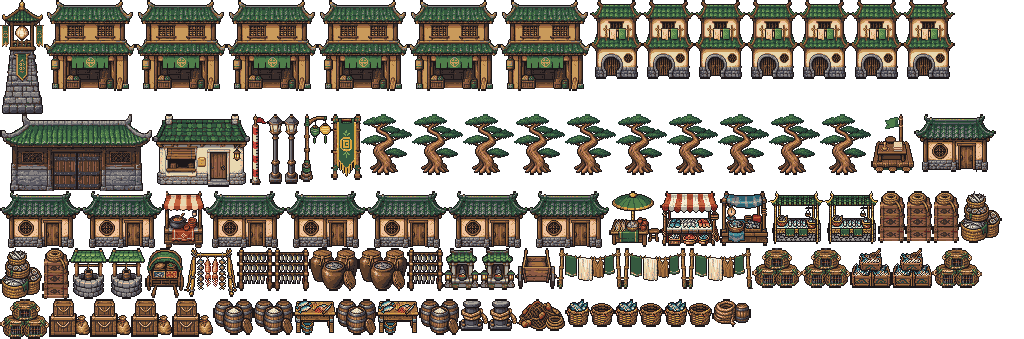
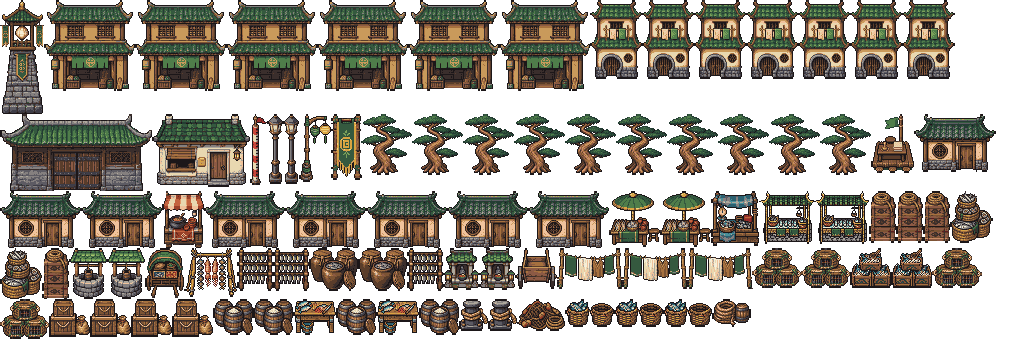
Swap the market's striped fish shed for an Earth Kingdom stall and untangle two stacked spots
Claude-Session: https://claude.ai/code/session_01H8JDTPYztrZvUL5HBCK6eR

Changed region(s): [[0.625, 0.5605, 1.0, 0.7375]]

diff --git a/src/content/scenes/rg02.topdown.ts b/src/content/scenes/rg02.topdown.ts
@@ -162,7 +162,7 @@ export const SALTSTEP_MARKET_OBJECTS: readonly TopDownObject[] = [
   // The quay (`n`): the fish shed, green and gold banners, racks and baskets along the back; lamps, rope, nets and tables along the
   // water. Rows 5-6 stay open.
   piece('handcart', 'handcart', 'prop', [[8, 4]], true),
-  piece('fish_shed', 'awning_shed', 'prop', [[10, 4]], true),
+  piece('fish_shed', 'ek_stall_parasol', 'prop', [[10, 4]], true),
   piece('baskets_north', 'fish_baskets', 'prop', [[11, 4]], true),
   piece('banners', 'banner_poles', 'prop', [[13, 4]], true),
   piece('quay_rack', 'drying_rack', 'prop', [[18, 4]], true),
@@ -180,12 +180,12 @@ export const SALTSTEP_MARKET_OBJECTS: readonly TopDownObject[] = [
   // and a cart between. Earth Kingdom pieces throughout.
   flip(piece('mid_parasol_w', 'ek_stall_parasol', 'prop', block(6, 7, 4, 4), true)),
   piece('mid_jars', 'clay_jars', 'prop', [[12, 4]], true),
-  flip(piece('mid_crates_n', 'fish_crates', 'prop', [[15, 4]], true)),
+  flip(piece('mid_crates_n', 'fish_crates', 'prop', [[14, 4]], true)),
   piece('mid_baskets_ne', 'basket_tower', 'prop', [[20, 4]], true),
   piece('mid_cart', 'ek_cart', 'prop', [[6, 6]], true),
   piece('mid_tower_w', 'basket_tower', 'prop', [[8, 5]], true),
   piece('mid_stall_green', 'ek_stall_green', 'prop', block(10, 11, 5, 5), true),
-  piece('mid_lantern', 'lantern_post', 'prop', [[13, 6]], true),
+  piece('mid_lantern', 'lantern_post', 'prop', [[13, 7]], true, { base: -14 }),
   flip(piece('mid_stall_green_e', 'ek_stall_green', 'prop', block(15, 16, 5, 5), true)),
   piece('mid_hang', 'fish_hang', 'prop', [[18, 5]], true),
   piece('mid_jars_sw', 'clay_jars', 'prop', [[2, 7]], true, { base: -14 }),

diff --git a/src/content/regions/saltstepEmberwatch/maps.ts b/src/content/regions/saltstepEmberwatch/maps.ts
@@ -107,10 +107,10 @@ export const SALTSTEP_MARKET: MapDef = {
     'U,,,uBBBBu,UUuBBBBBu,UUU',
     'U,u,,BBBBu,,u,BBBBB,,u,U',
     'U,,,,,,,,,,,,,,,,,,,,,,U',
-    'U:::::nnn:nnnn:n::nnnnUU',
+    'U:::::nnn:nnnnn:::nnnnUU',
     '==::::::n:nn:::nn:n:::wU',
-    '==::::n::::::n::::::::wU',
-    'U:n:n:nWWn::n:n:n:nnn:wU',
+    '==::::n:::::::::::::::wU',
+    'U:n:n:nWWn::nnn:n:nnn:wU',
     'WWWwwwwWWWwwGwWwWwwGGwwW',
     'WWWwwGGWWWwwwwWwwWwwwwWW',
     'WWWWwFWWWWWwwWWWwWFwwWWW',

diff --git a/docs/art/prompts/maps/saltstep_market.md b/docs/art/prompts/maps/saltstep_market.md
@@ -22,8 +22,8 @@ Saltstep, a market town built out over a grey bay.
 - Trees (49 tiles): 47 tiles (top centre), row 0: columns 0–23; row 1: columns 0, 4, 9, 11–13, 19 and 21–23; row 2: columns 0, 9, 12, 21 and 23; row 3: columns 0 and 23; row 4: columns 0 and 22–23; rows 5–7: column 23; one tile at column 2, row 2 (top left); one tile at column 0, row 7 (middle left).
 - Timber walls (21 tiles): a 5×2 block at columns 14–18, rows 1–2 (top right); a 4×2 block at columns 5–8, rows 1–2 (top left); one tile at column 5, row 10 (middle left); one tile at column 18, row 10 (middle right); one tile at column 12, row 13 (bottom centre).
 - Barred timber gates (5 tiles): a 2×1 block at columns 19–20, row 8 (middle right); a 2×1 block at columns 5–6, row 9 (middle left); one tile at column 12, row 8 (the centre).
-- Stone walls (180 tiles): 154 tiles (bottom centre), row 6: column 6; row 7: columns 2, 6–9 and 14; row 8: columns 0–2, 7–9, 14 and 23; row 9: columns 0–2, 7–9, 14, 17 and 22–23; row 10: columns 0–3, 6–10, 13–15, 17 and 21–23; row 11: columns 0–10, 13–15 and 17–23; rows 12–13: columns 0–10 and 13–23; rows 14–15: columns 0–23; 6 tiles (top centre), row 4: columns 10–13; row 5: columns 10–11; 5 tiles (top right), row 4: columns 18–21; row 5: column 18; 4 tiles (top left), row 4: columns 6–8; row 5: column 8; 3 tiles (top centre), row 4: column 15; row 5: columns 15–16; a 3×1 block at columns 18–20, row 7 (middle right); a 1×2 block at column 16, rows 7–8 (middle right); one tile at column 13, row 6 (the centre); one tile at column 4, row 7 (middle left); one tile at column 12, row 7 (the centre).
-- Sand (50 tiles): 48 tiles (the centre), row 4: columns 1–5, 9, 14 and 16–17; row 5: columns 2–7, 9, 12–14, 17 and 19–21; row 6: columns 2–5, 7–12 and 14–21; row 7: columns 3, 5, 10–11, 15, 17 and 21; one tile at column 1, row 7 (middle left); one tile at column 13, row 7 (the centre).
+- Stone walls (180 tiles): 156 tiles (bottom centre), row 6: column 6; row 7: columns 2, 6–9 and 12–14; row 8: columns 0–2, 7–9, 14 and 23; row 9: columns 0–2, 7–9, 14, 17 and 22–23; row 10: columns 0–3, 6–10, 13–15, 17 and 21–23; row 11: columns 0–10, 13–15 and 17–23; rows 12–13: columns 0–10 and 13–23; rows 14–15: columns 0–23; 7 tiles (top centre), row 4: columns 10–14; row 5: columns 10–11; 5 tiles (top right), row 4: columns 18–21; row 5: column 18; 4 tiles (top left), row 4: columns 6–8; row 5: column 8; a 3×1 block at columns 18–20, row 7 (middle right); a 2×1 block at columns 15–16, row 5 (the centre); a 1×2 block at column 16, rows 7–8 (middle right); one tile at column 4, row 7 (middle left).
+- Sand (50 tiles): 49 tiles (the centre), row 4: columns 1–5, 9 and 15–17; row 5: columns 2–7, 9, 12–14, 17 and 19–21; row 6: columns 2–5 and 7–21; row 7: columns 3, 5, 10–11, 15, 17 and 21; one tile at column 1, row 7 (middle left).
 - Plank floors (39 tiles): 14 tiles (bottom centre), row 8: columns 10–11 and 13; row 9: columns 10–13; rows 10–12: columns 11–12; row 13: column 11; 13 tiles (middle right), rows 5–7: column 22; row 8: columns 17–18 and 21–22; row 9: columns 18–21; row 10: columns 19–20; 7 tiles (middle left), row 8: columns 3–6; row 9: columns 3–4; row 10: column 4; 5 tiles (the centre), row 8: column 15; row 9: columns 15–16; rows 10–11: column 16.
 - Open ground everywhere else: grass (36 tiles).
 - The party enters from the left, standing at (1, 5), (1, 6), (2, 5), (2, 6), (1, 4), (2, 4); enemies come from the right. Paint nothing there that would read as an object to walk round.
@@ -35,10 +35,10 @@ UUUUUUUUUUUUUUUUUUUUUUUU
 U,,,uBBBBu,UUuBBBBBu,UUU
 U,u,,BBBBu,,u,BBBBB,,u,U
 U,,,,,,,,,,,,,,,,,,,,,,U
-U:::::nnn:nnnn:n::nnnnUU
+U:::::nnn:nnnnn:::nnnnUU
 ==::::::n:nn:::nn:n:::wU
-==::::n::::::n::::::::wU
-U:n:n:nWWn::n:n:n:nnn:wU
+==::::n:::::::::::::::wU
+U:n:n:nWWn::nnn:n:nnn:wU
 WWWwwwwWWWwwGwWwWwwGGwwW
 WWWwwGGWWWwwwwWwwWwwwwWW
 WWWWwFWWWWWwwWWWwWFwwWWW
